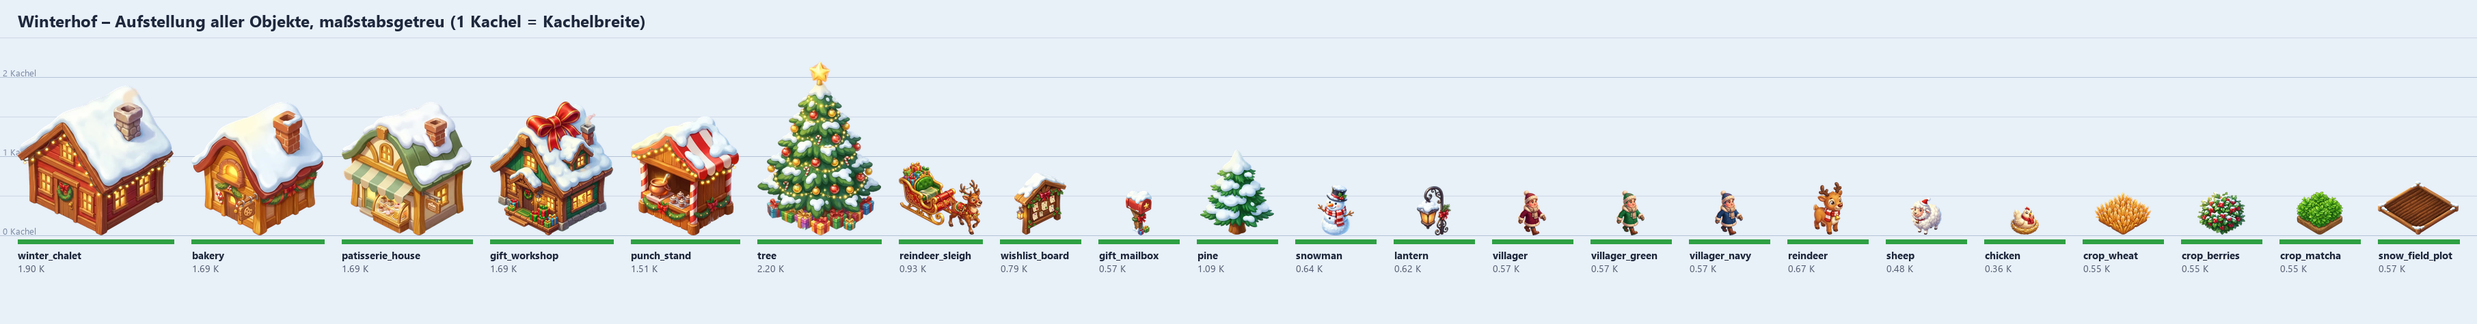
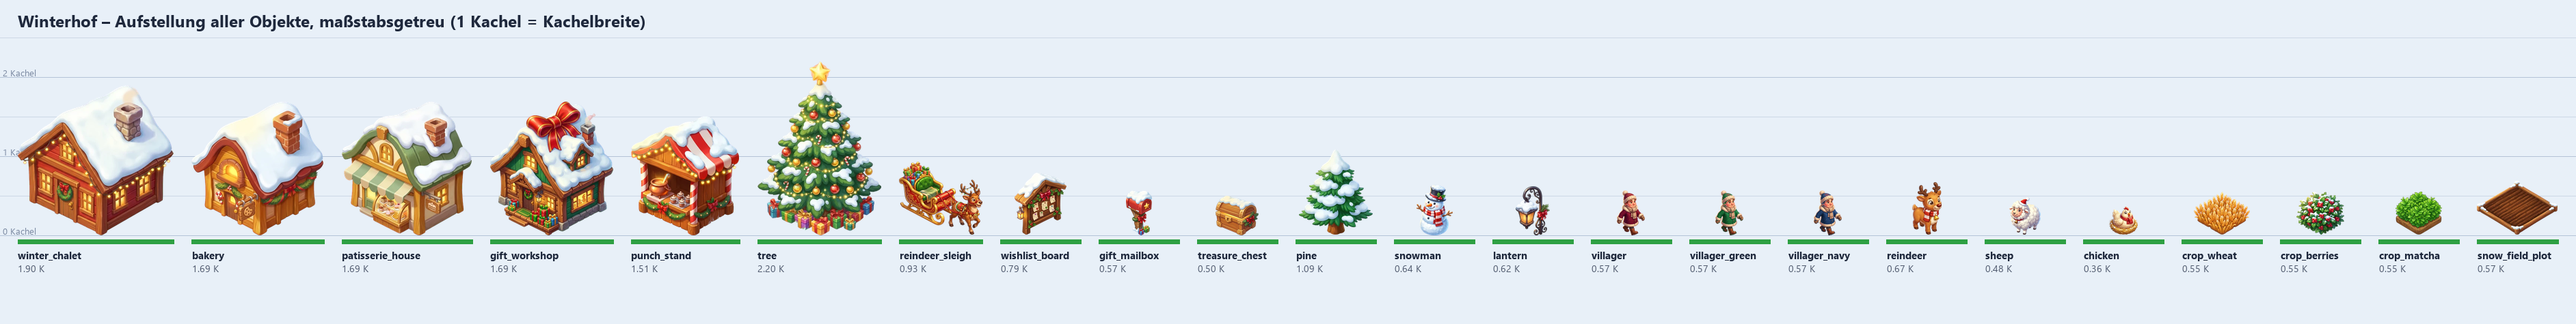
art: Schatztruhe (Gemini, Auftrag 1), Asset-Pruefung gruen

diff --git a/sw.js b/sw.js
@@ -1,6 +1,6 @@
 // Bei jedem Release hochzählen. Seite/Code: erst Netz, dann Cache (Updates kommen an).
 // Bilder: erst Cache, dann Netz (schnell, offline).
-const CACHE_NAME = 'winterhof-v8-1';
+const CACHE_NAME = 'winterhof-v8-2';
 const ASSETS = [
   './',
   './index.html',
@@ -33,7 +33,8 @@ const ASSETS = [
   './assets/sprites/alpine_cliff.webp',
   './assets/sprites/alpine_villager.webp',
   './assets/sprites/alpine_villager_green.webp',
-  './assets/sprites/alpine_villager_navy.webp'
+  './assets/sprites/alpine_villager_navy.webp',
+  './assets/sprites/treasure_chest.webp'
 ];
 
 self.addEventListener('install', (e) => {

diff --git a/docs/qa/asset_report.md b/docs/qa/asset_report.md
@@ -9,8 +9,7 @@
 - **GRÜN** `wishlist_board`
 - **GRÜN** `gift_mailbox`
 - **GRÜN** `reindeer_sleigh`
-- **ROT** `treasure_chest`
-  - ROT: Bilddatei fehlt
+- **GRÜN** `treasure_chest`
 - **GRÜN** `deco_pine`
 - **GRÜN** `deco_snowman`
 - **GRÜN** `deco_lantern`
@@ -32,6 +31,6 @@
 - alpine_cliff
 - timber_bridge
 
-Gesamt: **ROT**
+Gesamt: **GRÜN**
 
 Aufstellungsbild: docs/qa/aufstellung.png
